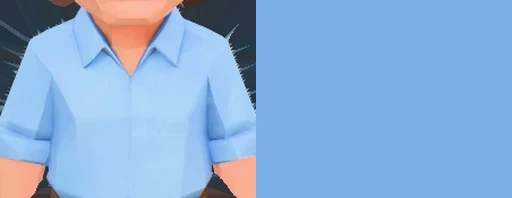
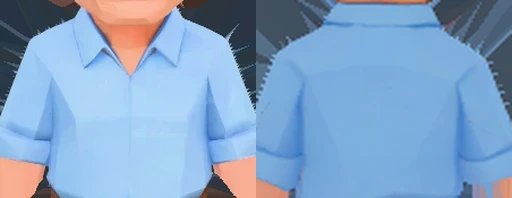
Elenco: nuca y espalda sacadas de las capturas de atrás de Meshy
Claude-Session: https://claude.ai/code/session_01GR3Q3hi2WhZwo1w7uuPhJy

diff --git a/scripts/caras/texturas.py b/scripts/caras/texturas.py
@@ -12,6 +12,31 @@ C={
  'dobro':  dict(croma=True,f='31.png',box=None,menton=201,cinto=392,pelo=(0,.8,'pelo'), torso=True),
  'faur':   dict(f='32.png',box=None,menton=238,cinto=400,pelo=(.32,.82,'fleco'), torso=True),
 }
+ESPALDAS={'faur':('33.png',False),'julo':('34.png',False),'glinsky':('35.png',False),'dobro':('36.png',True),'mati':('37.png',False,(120,110,300,470))}
+def espalda(k, ancho, alto, torsoRel=None, tamTorso=None):
+    # recorta la nuca (y la espalda) de la captura de atrás, del mismo tamaño que el frente
+    f,croma,*caja=ESPALDAS[k]
+    pil=Image.open(IMG+f).convert('RGB')
+    if caja: pil=pil.crop(caja[0])
+    im=np.asarray(pil).astype(int); m=mascara(im); mt=mascara(im,croma) if croma else m
+    rows=np.where(m.sum(1)>3)[0]; top,bot=int(rows[0]),int(rows[-1]); H=bot-top
+    best=None
+    for y in range(top+int(H*.12),top+int(H*.42)):
+        r=corrida(m[y],int(np.where(m[y])[0].mean())) if m[y].any() else None
+        if r and (best is None or r[1]-r[0]<best[1]): best=(y,r[1]-r[0])
+    cuello=best[0]
+    mids=[sum(corrida(m[y],int(np.where(m[y])[0].mean())))/2 for y in range(top+int((cuello-top)*.3),cuello) if m[y].any()]
+    hx=int(np.median(mids))
+    mh=envolvente(m,top,cuello)
+    cab,_,_=parte(im,mh,top,cuello,hx,16,1,mtex=m)
+    cab=np.asarray(Image.fromarray(cab.astype('uint8')).resize((ancho,alto),Image.LANCZOS)).astype(float)[:, ::-1]
+    tor=None
+    if torsoRel:
+        y1=min(bot-5,cuello+int((cuello-top)*torsoRel))
+        rr=corrida(m[cuello+3],hx); cx=(rr[0]+rr[1])//2
+        tor,_,_=parte(im,mt,cuello+2,y1,cx,10,1,limitar=True)
+        tor=np.asarray(Image.fromarray(tor.astype('uint8')).resize(tamTorso,Image.LANCZOS)).astype(float)[:, ::-1]
+    return cab,tor
 def cargar(c):
     p=Image.open(IMG+c['f']).convert('RGB')
     if c['box']: p=p.crop(c['box'])
@@ -101,7 +126,12 @@ for k,c in C.items():
         esp[int(a*H):int(b*H)]=col
         # transición suave hacia la nuca
         for i in range(int(b*H),min(H,int(b*H)+6)): t=(i-int(b*H))/6; esp[i]=col*(1-t)+esp[i]*t
-    # costados: la espalda arranca con el color del borde de la cara (oreja/pelo) y va hacia el color de atrás
+    # atrás: la nuca de la captura de espalda
+    tamT=None
+    if c['torso'] and c['cinto']: tamT=None
+    nuca,_=espalda(k,cab.shape[1],cab.shape[0])
+    esp=nuca.copy()
+    # costados: la espalda arranca con el color del borde de la cara (oreja/pelo) y se mezcla con la nuca
     Wc=cab.shape[1]; esp=esp.astype(float)
     def borde(fila, lado):
         xs=np.where(mh[top+fila, :])[0] if top+fila < mh.shape[0] else []
@@ -114,7 +144,7 @@ for k,c in C.items():
         Lc=cab[i,a:a+3].mean(0); Rc=cab[i,b-2:b+1].mean(0)
         for j in range(Wc):
             t=j/(Wc-1)  # 0 = borde derecho de la cara, 1 = borde izquierdo (espalda espejada)
-            k1=max(0,1-t/.3); k2=max(0,(t-.7)/.3)
+            k1=max(0,1-t/.12)*.6; k2=max(0,(t-.88)/.12)*.6
             esp[i,j]=esp[i,j]*(1-k1-k2)+Rc*k1+Lc*k2
     atlas(cab,esp).save(OUT+f'{k}-cabeza.webp',quality=90)
     d=dict(cabeza=dict(perfil=perf,**dim),piel=piel,pelo=pelo,
@@ -123,7 +153,7 @@ for k,c in C.items():
         tor,perft,dimt=parte(im,mt,c['menton']+3,c['cinto'],cx,10,esc,limitar=True)
         # espalda: color del costado del torso (la prenda de afuera)
         lado=mediana(im,m,c['menton']+int((c['cinto']-c['menton'])*.55),c['menton']+int((c['cinto']-c['menton'])*.7),int(cx-(dimt['x1']-dimt['x0'])/esc*.38),int(cx-(dimt['x1']-dimt['x0'])/esc*.3))
-        esp=np.zeros_like(tor); esp[:]=np.array([int(lado[i:i+2],16) for i in (1,3,5)])
+        _,esp=espalda(k,cab.shape[1],cab.shape[0],torsoRel=(c['cinto']-c['menton'])/(c['menton']-top),tamTorso=(tor.shape[1],tor.shape[0]))
         atlas(tor,esp).save(OUT+f'{k}-torso.webp',quality=90)
         d['torso']=dict(perfil=perft,**dimt); d['prenda']=lado
     datos[k]=d
